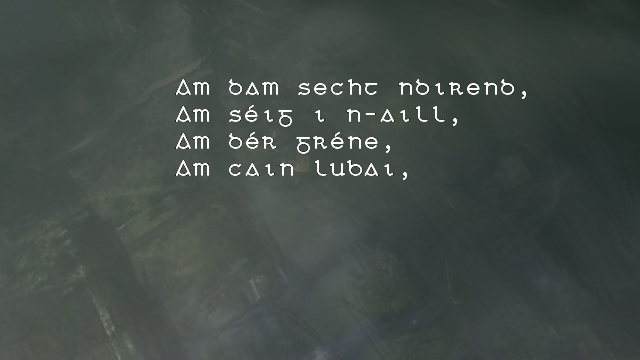
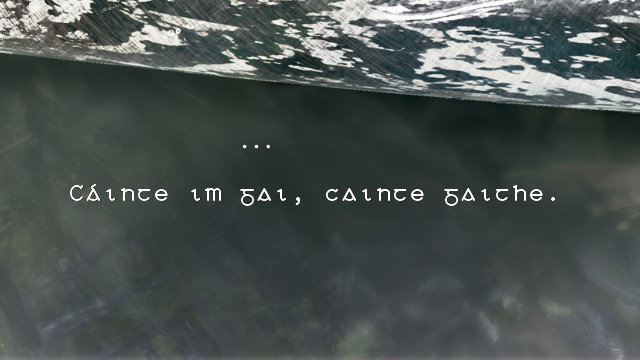
resync text to slide

diff --git a/src/app.js b/src/app.js
@@ -18,6 +18,7 @@ let englishProse = [
 
 
 
+
 ];
 
 function goToSlide(number) {
@@ -27,50 +28,129 @@ function goToSlide(number) {
 
 }
 
+clearLine = () => {
+  $('#demo').fadeTo('fast', 0.01);
+  $('#demo').text('');
+  setTimeout(
+    function () {
+      $('#demo').fadeTo('fast', 1), 500
+    }
 
 
-let currentLine = 0;
+
+  );
+
+}
+
+
 $(document).ready(function () {
 
-  let verse;
   nextEng = (verse) => {
-    $('#demo').fadeTo("slow", 1);
 
     if (verse === 0) {
+      console.log("verse " + verse);
 
       //show 3 lines of the poem together on one slide
 
       setTimeout(function () {
-        $('#demo').text(englishProse[2]);
-        typeWriter("#demo", "true", 80);
-        console.log(currentLine);
-        // $('#demo2', fadeOut());
+        clearLine();
 
-      }, 8000);
+        $('#demo').text(englishProse[2]);
+        typeWriter("#demo", "true", 30);
+
+      }, 14000);
+
 
       setTimeout(function () {
+        clearLine();
 
+        $('#demo').text(' ');
         $('#demo').text(englishProse[1]);
-        typeWriter("#demo", "true", 80);
-        console.log(currentLine);
-        // $('#demo', fadeOut());
-      }, 4000);
+        typeWriter("#demo", "true", 30);
+      }, 6000);
 
+      $('#demo').text('');
 
       $('#demo').text(englishProse[0]);
       // return msg;
-      typeWriter("#demo", "true", 80);
-      console.log(currentLine);
+      typeWriter("#demo", "true", 30);
 
     }
+    else if (verse === 11) {
+      //show 4 lines of the poem together on one slide
+      console.log("verse " + verse);
 
+      setTimeout(function () {
+        clearLine();
+        $('#demo').text('');
+        $('#demo').text(englishProse[6]);
+        typeWriter("#demo", "true", 30);
+
+      }, 16000);
+
+
+
+      setTimeout(function () {
+        clearLine();
+        $('#demo').text('');
+        $('#demo').text(englishProse[5]);
+        typeWriter("#demo", "true", 30);
+
+      }, 16000);
+
+
+      setTimeout(function () {
+        clearLine();
+        $('#demo').text(' ');
+        $('#demo').text(englishProse[4]);
+        typeWriter("#demo", "true", 30);
+      }, 8000);
+
+      $('#demo').text('');
+
+      $('#demo').text(englishProse[3]);
+      // return msg;
+      typeWriter("#demo", "true", 30);
+
+    }
+    else if
+      (verse === 13) {
+      console.log("verse " + verse);
+
+      //show 3 lines of the poem together on one slide
+
+      setTimeout(function () {
+        clearLine();
+
+        $('#demo').text(englishProse[9]);
+        typeWriter("#demo", "true", 30);
+
+      }, 14000);
+
+
+      setTimeout(function () {
+        clearLine();
+
+        $('#demo').text(' ');
+        $('#demo').text(englishProse[8]);
+        typeWriter("#demo", "true", 30);
+      }, 6000);
+
+      $('#demo').text('');
+
+      $('#demo').text(englishProse[7]);
+      // return msg;
+      typeWriter("#demo", "true", 30);
+
+
+    }
     else {
 
       $('#demo').text(englishProse[verse]);
       // return msg;
-      typeWriter("#demo", "true", 80);
-      console.log(currentLine);
-      currentLine++;
+      typeWriter("#demo", "true", 30);
+
+
     }
   };
 
@@ -90,105 +170,116 @@ $(document).ready(function () {
   slideEvent = () => {
     switch (slideNumber) {
 
-      case 0: console.log("First poem is...");
+      case 0: console.log("The oldest Gaelic poem");
         goToSlide(0);
-        wait = 16000;
         break;
 
       case 1: console.log("an dán");
         goToSlide(1);
-        nextEng(0);
+
 
 
         break;
-      case 2: console.log("according to legends");
+      case 2: console.log("Fadó Fadó in Éireann");
         wait = 6500;
         goToSlide(2);
-        nextEng(3);
 
         break;
 
-      case 3: console.log("nexto");
+      case 3: console.log("Mac Breogan mac Bile");
         goToSlide(3);
-        nextEng(5);
 
         break;
-      case 4: console.log("and then...");
+      case 4: console.log("Amergín");
         // wait = 1000;
         goToSlide(4);
 
-        nextEng(6);
 
         break;
 
-      case 5: console.log("and then...");
+      case 5: console.log("Tuatha Dé Dannan...");
         // wait = 4000;
         goToSlide(5);
 
         break;
-      case 6: console.log("and then...");
+      case 6: console.log("Na Formóraigh.");
         goToSlide(6);
 
         break;
-      case 7: console.log("and then...");
+      case 7: console.log("Fórsaí Tuaithe Dé Dannan");
         goToSlide(7);
 
         break;
-      case 8: console.log("and then...");
+      case 8: console.log("Stoirm");
         goToSlide(8);
-        wait = 15000;
+
 
         break;
-      case 9: console.log("and then...");
+      case 9: console.log("filíocht...");
         goToSlide(9);
-        wait = 6000;
+        setTimeout(function () {
+          wait = 24000;
+
+        }, 3000);
 
         break;
       case 10: console.log("and then...");
         goToSlide(10);
+        setTimeout(function () {
+          nextEng(0);
+          $("#demo").fadeTo("slow", 1);
 
+
+        }, 2000)
         break;
 
 
-      case 11: console.log("sampla");
-        wait = 6000;
+      case 11: console.log("versa II");
+        wait = 28000;
         goToSlide(11);
+        // alert("should be here");
+        nextEng(11);
 
         break;
       case 12: console.log("according to legends");
         goToSlide(12);
+        nextEng(13);
 
+        // wait = 16000;
         break;
 
-      case 13: console.log("nexto");
+      case 13: console.log("versa 1");
         goToSlide(13);
+        nextEng(13);
 
         break;
-      case 14: console.log("and then...");
-        // wait = 1000;
+      case 14: console.log("versa 2");
+
         goToSlide(14);
+        nextEng(6);
 
         break;
 
-      case 15: console.log("and then...");
-        // wait = 4000;
+      case 15: console.log("versa 3");
         goToSlide(15);
+        nextEng(3);
 
         break;
-      case 16: console.log("and then...");
+      case 16: console.log("versa 3");
         goToSlide(16);
 
         break;
-      case 17: console.log("and then...");
+      case 17: console.log("versa 4");
         goToSlide(17);
 
         break;
-      case 18: console.log("and then...");
+      case 18: console.log("versa 5");
         goToSlide(18);
 
         break;
-      case 19: console.log("and then...");
+      case 19: console.log("versa 6");
         goToSlide(19);
+
 
         break;
       case 20: console.log("and then...");

diff --git a/index.html b/index.html
@@ -124,19 +124,11 @@
             <div class="carousel-item">
               <img class="d-block w-100" src="./images/About1/29.png" alt="">
             </div>
-            <div class="carousel-item">
-              <img class="d-block w-100" src="./images/About1/30.png" alt="">
-            </div>
-            <div class="carousel-item">
-              <img class="d-block w-100" src="./images/About1/31.png" alt="">
-            </div>
-
           </div>
 
           <div>
-            <div id="demo">.</div>
-            <div id="demo2">.</div>
-            <div id="demo3">.</div>
+            <div id="demo"></div>
+
           </div>
         </div>
       </div>

diff --git a/css/style.css b/css/style.css
@@ -151,7 +151,7 @@ margin:5%;
   /* border: 2px solid blue; */
 }
 #demo{
-display:none;
+opacity:0;
   position: fixed;
   display: flex;
 justify-content: left;
@@ -160,13 +160,16 @@ align-items: center;
 left:0%; */
 padding-left:20%;
 
-padding-top:20%;
+padding-top:35%;
 width: 100%;
-  color:white;
+  color:rgb(230, 227, 93);
   font-size: 2em !important; 
   z-index: 100;
 }
 
+#cursor{
+  display:none;
+}
 .carousel-inner,  .d-block.w-100{
   position:fixed;
   /* justify-content: center;
